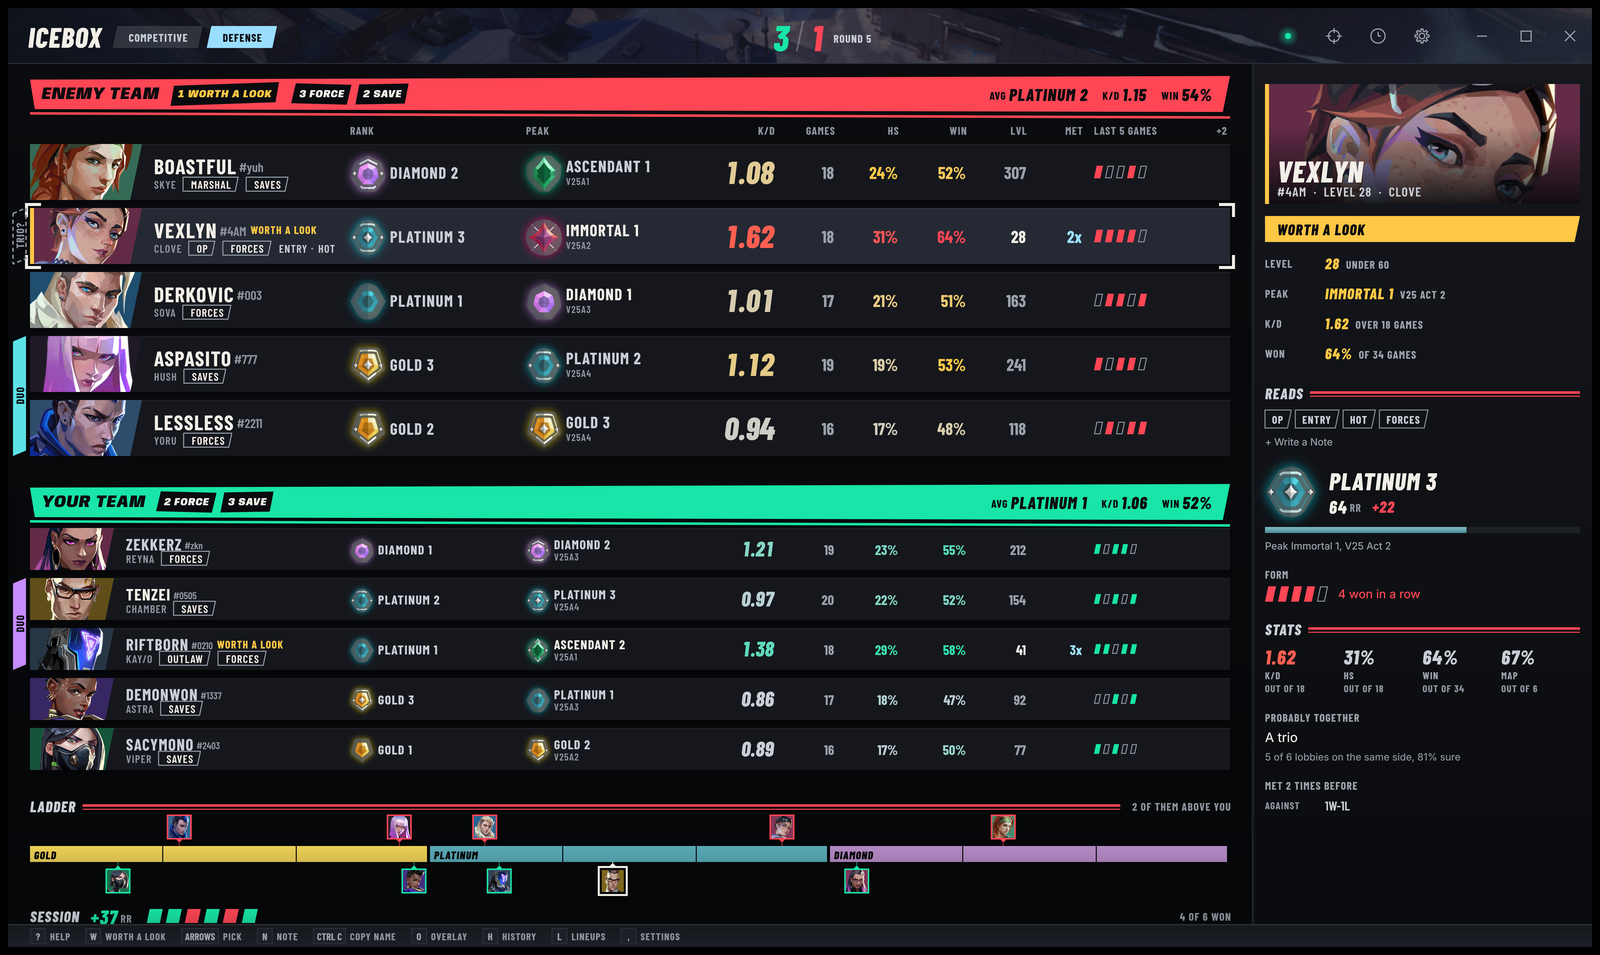
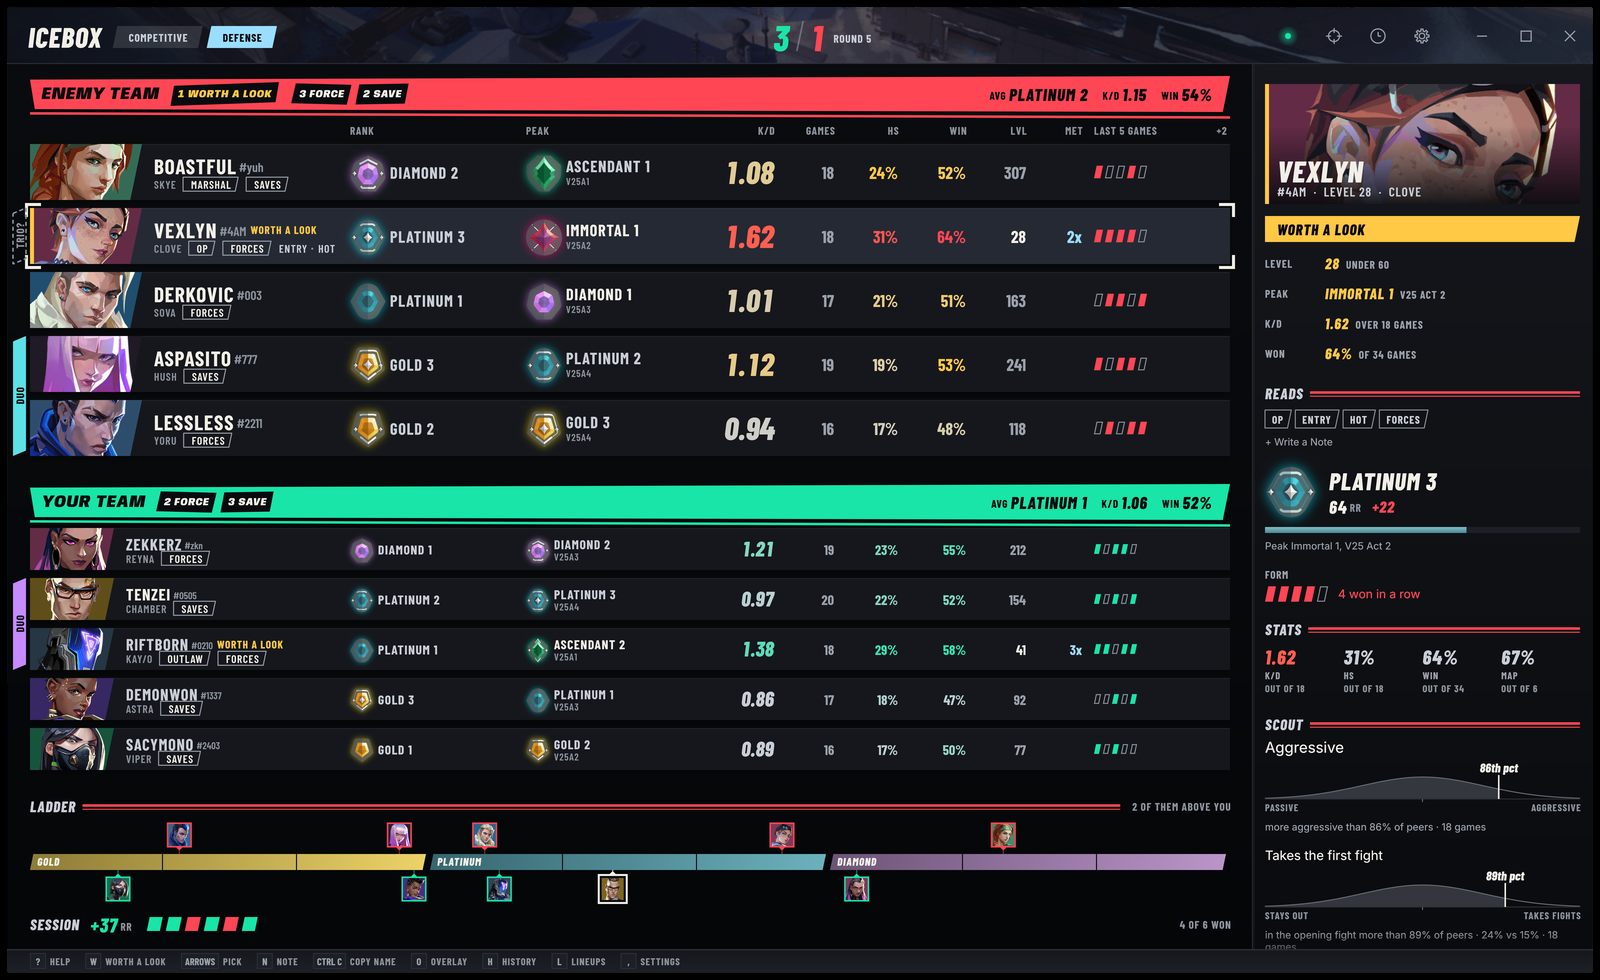
feat: Valorant Overseer 2.4.0
Scout comes to the panel, the ladder gets rising rank plates, and the README
and site show both in new pictures.

diff --git a/docs/index.html b/docs/index.html
@@ -36,11 +36,11 @@
   "@type": "SoftwareApplication",
   "name": "Valorant Overseer",
   "alternateName": "Overseer",
-  "description": "A free match tracker for VALORANT on Windows that runs entirely on your PC. It shows everyone in your lobby and match with their rank, peak rank, K/D and win rate, who queued together, and whether an account looks like a smurf, with an agent select overlay, match history, a lineup planner and Appear Offline for Riot chat.",
+  "description": "A free match tracker for VALORANT on Windows that runs entirely on your PC. It shows everyone in your lobby and match with their rank, peak rank, K/D and win rate, who queued together, whether an account looks like a smurf, and how each player's habits compare with others on their agent and rank, with an agent select overlay, match history, a lineup planner and Appear Offline for Riot chat.",
   "applicationCategory": "GameApplication",
   "applicationSubCategory": "Match tracker",
   "operatingSystem": "Windows 10, Windows 11",
-  "softwareVersion": "2.3.4",
+  "softwareVersion": "2.4.0",
   "dateModified": "2026-11-02",
   "inLanguage": "en-CA",
   "url": "https://somethingobvious.github.io/Valorant-Overseer/",
@@ -62,6 +62,7 @@
     "Rank, peak rank, K/D, headshot rate, win rate and level for every player",
     "Party detection for duos and trios",
     "Smurf signs flagged as Worth a Look",
+    "Scout, which sets each player's pace and habits against peers on the same agent and rank",
     "Agent select overlay toggled with Ctrl+Alt+O",
     "Each player's three most played agents and shared role before they lock in",
     "Reads on who forces and who saves after a lost round",
@@ -507,11 +508,11 @@ h1 .w { gap: 0.05em; }
     <p class="say"><span>Every player in your match, ranked before round one.</span></p>
     <p class="lede">Rank, peak rank, K/D, headshot and win rates and who queued together, for all ten players, in a window beside VALORANT. Free for Windows 10 and 11, and it runs on your PC with no account.</p>
     <div class="get">
-      <a class="dl" href="https://github.com/SomethingObvious/Valorant-Overseer/releases/latest"><svg class="ico" aria-hidden="true"><use href="#i-down"/></svg><b>Download for Windows</b><span class="meta"><span>Free</span><span>2.3.4</span></span></a>
+      <a class="dl" href="https://github.com/SomethingObvious/Valorant-Overseer/releases/latest"><svg class="ico" aria-hidden="true"><use href="#i-down"/></svg><b>Download for Windows</b><span class="meta"><span>Free</span><span>2.4.0</span></span></a>
       <a class="src" href="https://github.com/SomethingObvious/Valorant-Overseer">Source on GitHub</a>
     </div>
     <figure class="shot">
-      <div class="px"><img src="assets/shots/board-1600.webp" srcset="assets/shots/board-960.webp 960w, assets/shots/board-1600.webp 1600w, assets/shots/board-3200.webp 3200w" sizes="(min-width: 1000px) 48vw, 100vw" width="1600" height="955" fetchpriority="high" alt="The Overseer board in a VALORANT match on Icebox: the enemy team's ranks, peak ranks, K/D, headshot and win rates, with one player flagged Worth a Look and a possible trio, your team below, and the selected player's panel on the right"></div>
+      <div class="px"><img src="assets/shots/board-1600.webp" srcset="assets/shots/board-960.webp 960w, assets/shots/board-1600.webp 1600w, assets/shots/board-3200.webp 3200w" sizes="(min-width: 1000px) 48vw, 100vw" width="1600" height="980" fetchpriority="high" alt="The Overseer board in a VALORANT match on Icebox: the enemy team's ranks, peak ranks, K/D, headshot and win rates, with one player flagged Worth a Look and a possible trio, your team below, and the selected player's panel on the right"></div>
       <figcaption>Round five on Icebox, enemy team on top.</figcaption>
       <span class="call star red" aria-hidden="true">All Ten Players</span>
     </figure>
@@ -579,18 +580,20 @@ h1 .w { gap: 0.05em; }
     <div class="wrap">
       <div class="head cutin"><h2 id="panel-h"><span class="vh">Peak, Form and Reads</span><span class="rn" aria-hidden="true"><span class="w"><i class="t v3" style="--s:1.05;--r:-6.5deg;--y:-0.03em">P</i><i class="t v1" style="--s:0.89;--r:-5.3deg;--y:-0.03em">E</i><i class="t v3" style="--s:0.87;--r:-5.0deg;--y:-0.05em">A</i><i class="t v7" style="--s:0.87;--r:-1.8deg;--y:0.06em">K</i><i class="t tp">,</i></span> <span class="w"><i class="t v3" style="--s:1.03;--r:0.5deg;--y:-0.05em">F</i><i class="t v8" style="--s:1.06;--r:-3.5deg;--y:0.02em">O</i><i class="t v7" style="--s:0.94;--r:3.4deg;--y:0.02em">r</i><i class="t v1" style="--s:1.00;--r:-2.8deg;--y:0.04em">M</i></span> <span class="w"><i class="t v6" style="--s:0.89;--r:-2.5deg;--y:0.03em">A</i><i class="t v5" style="--s:1.04;--r:-0.1deg;--y:0.04em">N</i><i class="t v7" style="--s:0.96;--r:-3.1deg;--y:0.00em">D</i></span> <span class="w"><i class="t v6" style="--s:1.05;--r:-1.4deg;--y:-0.03em">R</i><i class="t v7" style="--s:0.91;--r:-5.2deg;--y:0.02em">e</i><i class="t v3" style="--s:1.08;--r:-0.9deg;--y:0.01em">A</i><i class="t v1" style="--s:0.94;--r:6.5deg;--y:0.06em">D</i><i class="t v3" style="--s:0.96;--r:-2.8deg;--y:-0.06em">S</i></span></span></h2></div>
       <figure class="shot back panel">
-        <div class="px"><img src="assets/shots/rung-panel-800.webp" srcset="assets/shots/rung-panel-800.webp 1x, assets/shots/rung-panel-1340.webp 2x" width="670" height="1280" loading="lazy" decoding="async" alt="A player's panel in Overseer: their card, a Worth a Look flag listing their level, their peak and when they reached it, their K/D and win rate, reads, Platinum 3 with RR, four wins in a row, stats, a likely trio and the games you've met them in before"></div>
+        <div class="px"><img src="assets/shots/rung-panel-800.webp" srcset="assets/shots/rung-panel-800.webp 1x, assets/shots/rung-panel-1340.webp 2x" width="670" height="1544" loading="lazy" decoding="async" alt="A player's panel in Overseer: their card, a Worth a Look flag listing their level, their peak and when they reached it, their K/D and win rate, reads, Platinum 3 with RR, four wins in a row, their stats, and Scout placing them as more aggressive than 86% of Clove players at their rank"></div>
         <figcaption>Vexlyn's panel, flagged Worth a Look.</figcaption>
         <span class="call star warn" aria-hidden="true">Worth a Look</span>
       </figure>
       <div class="words">
         <p>Rest the pointer on a player and the panel opens on their card, their rank with its RR, their form over recent games, the agents they main and a rating line across their last ten. It also lists who they play with most, and how often they win together.</p>
         <p>Reads sum up their habits from those matches, like whether they save or force on a bad round, or only ever play one agent. An account that looks like a smurf is flagged <strong>Worth a Look</strong>, with the reasons beside it. Notes and tags you leave on a player come back the next time you meet them.</p>
+        <h3>Scout</h3>
+        <p>Scout sets their recent games against other players on the same agent in the same rank band. It names their pace, like Aggressive, and up to two habits that stand out, each on a curve of those peers with a tip for playing against it, then guesses what they will buy on this kind of round from the rounds like it they have played.</p>
         <h3>Who Queued Together</h3>
-        <p>Parties get a tab down the side of their rows, so a duo or a trio reads at a glance. The ladder under the board puts everyone in the lobby at their rank, and your session's RR keeps count of the night.</p>
+        <p>Parties get a tab down the side of their rows, so a duo or a trio reads at a glance. The ladder under the board puts everyone in the lobby on their rank's plate, the other team above it and yours below, and your session's RR keeps count of the night.</p>
       </div>
       <figure class="shot back parties pan">
-        <div class="px"><img src="assets/shots/rung-parties-1400.webp" srcset="assets/shots/rung-parties-800.webp 800w, assets/shots/rung-parties-1400.webp 1400w, assets/shots/rung-parties-2800.webp 2800w" sizes="(max-width: 720px) 760px, (min-width: 1000px) 56vw, 100vw" width="1400" height="503" loading="lazy" decoding="async" alt="Your team in Overseer with a duo tab joining two players' rows, the rank ladder placing every player in the lobby, and plus 37 RR for the session"></div>
+        <div class="px"><img src="assets/shots/rung-parties-1400.webp" srcset="assets/shots/rung-parties-800.webp 800w, assets/shots/rung-parties-1400.webp 1400w, assets/shots/rung-parties-2800.webp 2800w" sizes="(max-width: 720px) 760px, (min-width: 1000px) 56vw, 100vw" width="1400" height="532" loading="lazy" decoding="async" alt="Your team in Overseer with a duo tab joining two players' rows, the rank ladder placing every player in the lobby on plates for Gold, Platinum and Diamond, and plus 37 RR for the session"></div>
         <figcaption>Your team with a duo, the lobby's rank ladder and the session's RR.</figcaption>
         <span class="call say-it swipe" aria-hidden="true">Swipe for the Ladder</span>
       </figure>
@@ -664,7 +667,7 @@ h1 .w { gap: 0.05em; }
       <div class="head cutin"><h2 id="admit-h"><span class="vh">Setup in Three Steps</span><span class="rn" aria-hidden="true"><span class="w"><i class="t v5" style="--s:0.96;--r:6.5deg;--y:0.05em">S</i><i class="t v1" style="--s:0.99;--r:-0.2deg;--y:0.00em">E</i><i class="t v6" style="--s:0.89;--r:1.9deg;--y:-0.03em">T</i><i class="t v2" style="--s:0.88;--r:-0.8deg;--y:-0.03em">U</i><i class="t v5" style="--s:0.86;--r:-1.9deg;--y:-0.01em">P</i></span> <span class="w"><i class="t v8" style="--s:1.01;--r:1.6deg;--y:0.05em">I</i><i class="t v7" style="--s:0.97;--r:4.9deg;--y:0.01em">N</i></span> <span class="w"><i class="t v6" style="--s:0.90;--r:-3.9deg;--y:0.03em">T</i><i class="t v8" style="--s:0.89;--r:-6.4deg;--y:0.05em">H</i><i class="t v5" style="--s:0.94;--r:4.3deg;--y:-0.00em">R</i><i class="t v3" style="--s:1.11;--r:2.8deg;--y:0.01em">E</i><i class="t v1" style="--s:1.05;--r:0.7deg;--y:0.00em">E</i></span> <span class="w"><i class="t v7" style="--s:0.91;--r:2.6deg;--y:-0.00em">S</i><i class="t v1" style="--s:0.88;--r:-3.4deg;--y:-0.04em">T</i><i class="t v3" style="--s:1.07;--r:2.1deg;--y:-0.05em">E</i><i class="t v7" style="--s:1.12;--r:2.2deg;--y:-0.01em">p</i><i class="t v6" style="--s:0.89;--r:-3.5deg;--y:-0.01em">S</i></span></span></h2></div>
       <div class="get2">
         <span class="call star red" aria-hidden="true">No Admin Rights</span>
-        <a class="dl big" href="https://github.com/SomethingObvious/Valorant-Overseer/releases/latest"><svg class="ico" aria-hidden="true"><use href="#i-down"/></svg><b>Download for Windows</b><span class="meta"><span>Free</span><span>2.3.4</span></span></a>
+        <a class="dl big" href="https://github.com/SomethingObvious/Valorant-Overseer/releases/latest"><svg class="ico" aria-hidden="true"><use href="#i-down"/></svg><b>Download for Windows</b><span class="meta"><span>Free</span><span>2.4.0</span></span></a>
         <p>Setup installs Overseer into AppData with its own copy of Python, so it needs no admin rights. It also installs yt-dlp and FFmpeg with winget for lineup clips. A new version's setup updates in place and keeps your region, lineups, notes and settings, and it uninstalls from Settings, then Apps.</p>
       </div>
       <ol class="steps">
@@ -695,8 +698,8 @@ h1 .w { gap: 0.05em; }
     <article class="card">
       <div class="head cutin"><h2 id="close-h"><span class="vh">Before Round One</span><span class="rn" aria-hidden="true"><span class="w"><i class="t v8" style="--s:1.07;--r:-3.6deg;--y:-0.00em">B</i><i class="t v2" style="--s:1.08;--r:0.1deg;--y:-0.05em">E</i><i class="t v4" style="--s:0.93;--r:2.8deg;--y:0.04em">F</i><i class="t v5" style="--s:0.86;--r:1.7deg;--y:-0.05em">O</i><i class="t v1" style="--s:1.01;--r:-5.0deg;--y:0.01em">R</i><i class="t v2" style="--s:0.86;--r:1.2deg;--y:0.01em">E</i></span> <span class="w"><i class="t v6" style="--s:0.88;--r:-1.0deg;--y:-0.04em">R</i><i class="t v1" style="--s:1.06;--r:5.4deg;--y:-0.00em">O</i><i class="t v7" style="--s:0.91;--r:-0.2deg;--y:0.05em">u</i><i class="t v1" style="--s:1.04;--r:-1.1deg;--y:0.04em">N</i><i class="t v8" style="--s:1.01;--r:4.2deg;--y:0.00em">D</i></span> <span class="w"><i class="t v3" style="--s:0.92;--r:-6.0deg;--y:-0.03em">O</i><i class="t v6" style="--s:0.98;--r:-4.7deg;--y:-0.05em">N</i><i class="t v2" style="--s:1.06;--r:6.3deg;--y:-0.03em">E</i></span></span></h2></div>
       <p class="note">Every player in your match, ranked. Free for Windows 10 and 11, and it runs on your PC with no account.</p>
-      <a class="dl big" href="https://github.com/SomethingObvious/Valorant-Overseer/releases/latest"><svg class="ico" aria-hidden="true"><use href="#i-down"/></svg><b>Download for Windows</b><span class="meta"><span>Free</span><span>2.3.4</span></span></a>
-      <p class="sign"><span class="chip"><img src="assets/mark.svg" width="32" height="32" alt=""></span><span class="who">Valorant Overseer</span><span class="ver">2.3.4</span></p>
+      <a class="dl big" href="https://github.com/SomethingObvious/Valorant-Overseer/releases/latest"><svg class="ico" aria-hidden="true"><use href="#i-down"/></svg><b>Download for Windows</b><span class="meta"><span>Free</span><span>2.4.0</span></span></a>
+      <p class="sign"><span class="chip"><img src="assets/mark.svg" width="32" height="32" alt=""></span><span class="who">Valorant Overseer</span><span class="ver">2.4.0</span></p>
     </article>
   </section>
 </main>

diff --git a/crates/overseer-app/src/shot/site.rs b/crates/overseer-app/src/shot/site.rs
@@ -341,6 +341,81 @@ fn vexlyn(p: &mut Player) {
             "Economy",
         ),
     ];
+    p.scout = Some(scout());
+    p.brief = [
+        "Opening kill/death involvement: 24% · 412 rounds · peers 15%",
+        "Gun-kill range: 2,140 map units · 211 kills · peers 1,630 map units",
+        "Rounds with Operator: 14% · 412 rounds · peers 4%",
+        "Death timing: 31s · 284 deaths · peers 38s",
+        "Spike plants: 19% · 206 attack rounds · peers 21%",
+    ]
+    .into_iter()
+    .map(|text| overseer_core::BriefLine {
+        text: Some(text.to_owned()),
+        ..overseer_core::BriefLine::default()
+    })
+    .collect();
+}
+
+/// The selected enemy's Scout section, worded the way the backend words it:
+/// an aggressive Operator player who takes the first fight.
+fn scout() -> overseer_core::Scout {
+    let finding = |headline: &str, evidence: &str, suggest: &str, pct: f32, ends: (&str, &str)| {
+        overseer_core::ScoutFinding {
+            headline: Some(headline.to_owned()),
+            evidence: Some(evidence.to_owned()),
+            suggest: Some(suggest.to_owned()),
+            pct: Some(pct),
+            pos: Some(1.4 * (pct - 0.5) / 0.4),
+            left: Some(ends.0.to_owned()),
+            right: Some(ends.1.to_owned()),
+            share: Some(format!("{}th pct", (pct * 100.0).round())),
+            ..overseer_core::ScoutFinding::default()
+        }
+    };
+    overseer_core::Scout {
+        title: Some("Scout".to_owned()),
+        tag: Some(finding(
+            "Aggressive",
+            "more aggressive than 86% of peers · 18 games",
+            "",
+            0.86,
+            ("passive", "aggressive"),
+        )),
+        habits: vec![
+            finding(
+                "Takes the first fight",
+                "in the opening fight more than 89% of peers · 24% vs 15% · 18 games",
+                "Set up a trade for the opening.",
+                0.89,
+                ("stays out", "takes fights"),
+            ),
+            finding(
+                "Fights at long range",
+                "kills from further than 81% of peers · 16/18 games",
+                "Use utility before a long peek.",
+                0.81,
+                ("close", "long range"),
+            ),
+        ],
+        buy: Some(overseer_core::ScoutBuy {
+            label: Some("Pistol · 36 past rounds".to_owned()),
+            armor: Some("Light armor 25/36".to_owned()),
+            items: vec![
+                overseer_core::ScoutGun {
+                    name: Some("Ghost".to_owned()),
+                    value: Some("22/36".to_owned()),
+                },
+                overseer_core::ScoutGun {
+                    name: Some("Classic".to_owned()),
+                    value: Some("14/36".to_owned()),
+                },
+            ],
+            ..overseer_core::ScoutBuy::default()
+        }),
+        footer: Some("Last 18 ranked games · 15 on Clove".to_owned()),
+        ..overseer_core::Scout::default()
+    }
 }
 
 /// The site's lobby: the snapshot board's shapes with the numbers a real
@@ -469,7 +544,17 @@ fn shots() -> Vec<(&'static str, Vec2, Shot)> {
     vec![
         (
             "board",
-            vec2(1600.0, 955.0),
+            vec2(1600.0, 980.0),
+            Shot::Window(Box::new(
+                Scene::of(Some(SELECTED))
+                    .with(lobby())
+                    .lived(career(&renamed(A_HISTORY))),
+            )),
+        ),
+        (
+            // The same board, tall enough for the whole of Vexlyn's panel.
+            "panel",
+            vec2(1600.0, 1500.0),
             Shot::Window(Box::new(
                 Scene::of(Some(SELECTED))
                     .with(lobby())
@@ -668,7 +753,7 @@ fn the_site_pictures_render_to_the_folder() {
         // render, and the board's key and panel crops are a part of it.
         let scale = match name {
             "settings" => 5.0,
-            "board" => 4.0,
+            "board" | "panel" => 4.0,
             _ => 3.0,
         };
         let mut harness = Harness::builder()

diff --git a/README.md b/README.md
@@ -5,7 +5,8 @@
 Valorant Overseer is a match tracker for VALORANT on Windows that runs entirely
 on your PC. It shows all ten players in your match with their rank, peak rank,
 K/D and win rate, who queued together, and whether an account looks like a
-smurf. It also keeps your match history, has a lineup planner with clips for
+smurf, and Scout sets each player's habits against others on the same agent at
+about the same rank. It also keeps your match history, has a lineup planner with clips for
 every map, puts an overlay over the game in agent select, and can hide you
 from your friends in Riot chat.
 
@@ -17,7 +18,7 @@ There's more on the [Valorant Overseer site](https://somethingobvious.github.io/
 
 ![The Overseer board in a VALORANT match, with each player's rank, peak rank and K/D](docs/assets/shots/board-1600.webp)
 
-![Overseer in agent select, with your team's ranks, a duo and the rank ladder](docs/assets/shots/pregame-1600.webp)
+![Overseer in agent select, with your team's ranks, a duo and the rank ladder of plates](docs/assets/shots/pregame-1600.webp)
 
 ![The Overseer overlay over VALORANT in agent select](docs/assets/shots/overlay-full.webp)
 
@@ -48,12 +49,24 @@ card, their rank with its RR, their form, the agents they main and who they
 play with most. Reads sum up their habits from recent matches, and an account
 that looks like a smurf is flagged Worth a Look with the reasons beside it.
 Notes and tags you leave on a player come back the next time you meet them.
-Under the board, the ladder puts everyone in the lobby at their rank, framed
-in their team's colour, and your session's RR keeps count of the night.
+
+Under their stats, Scout puts the player's recent games against other players
+on the same agent in the same rank band. It names their pace, like Aggressive,
+and up to two habits that stand out, each on a curve of those peers with a tip
+for playing against it. It also guesses what they'll buy on this kind of round
+from the rounds like it they've played, and All Figures opens every line it
+worked out. Games and Within in Settings pick how many recent games each row
+reads (5, 10 or 20) and how old they can be.
+
+Under the board, the ladder lays the lobby's ranks out as a strip of plates
+that brighten toward the top of each rank. Your team sits below it and the
+other team above, each face framed in its team's colour, and faces that land
+close together overlap a little instead of hiding each other. Your session's
+RR keeps count of the night beneath it.
 
 Your match history shows each game's score with a Victory or Defeat chip under
-it, your K/D/A, ACS and the RR you won or lost. Open one for the full scoreboard, with ADR, headshot rate, KAST and
-first bloods for all ten players.
+it, your K/D/A, ACS and the RR you won or lost. Open one for the full
+scoreboard, with ADR, headshot rate, KAST and first bloods for all ten players.
 
 The lineup planner covers every map. Drag from where you stand to where it
 lands, pick the agent and the ability, and add a clip from a YouTube link or a
@@ -81,16 +94,15 @@ or installs anything by itself. Your notes, lineups and history stay in the
 install folder, and Your Data in settings opens it.
 
 The window draws nothing while you leave it alone, and asks Windows for the
-integrated GPU so VALORANT keeps the faster
-one.
+integrated GPU so VALORANT keeps the faster one.
 
-Scout reuses those recent games (5, 10 or 20 per player) and a bundled 1 MB
-file of peer statistics; it never downloads the research dataset or crawls
-other players' histories. The peer baseline was sampled through one account,
-so its percentiles describe that sample, not the whole ranked population.
-The optional party match cache expires after the selected number of days
-and holds at most 200 compressed matches or 64 MiB, evicting the oldest first.
-Turning retention off clears that cache. Scout adds no permanent match log.
+Scout works from the same recent games and a 1 MB file of peer statistics
+that ships with the app, so it doesn't crawl anyone else's history. That
+baseline was sampled through one account, which means its percentiles describe
+that sample and not every ranked player. Keep in settings holds your party's
+games on disk for 7, 14 or 30 days, so a restart doesn't ask Riot for them
+again. It keeps at most 200 matches or 64 MiB and drops the oldest first, and
+setting it to Off clears it.
 
 ## Installing
 

diff --git a/crates/README.md b/crates/README.md
@@ -225,7 +225,7 @@ game, that is the right way round.
 
 ## The Python Backend Stays for Now
 
-`backend/` is about 10,000 lines, and its value is in the parts nobody sees:
+`backend/` is about 16,000 lines, and its value is in the parts nobody sees:
 the 429 handling, the caches keyed on match ids, the queue preference order in
 `_fresh_mids`, the throttles that keep this read-only and unbannable.
 Rewriting that in one go is where a ban comes from. The window only reaches
